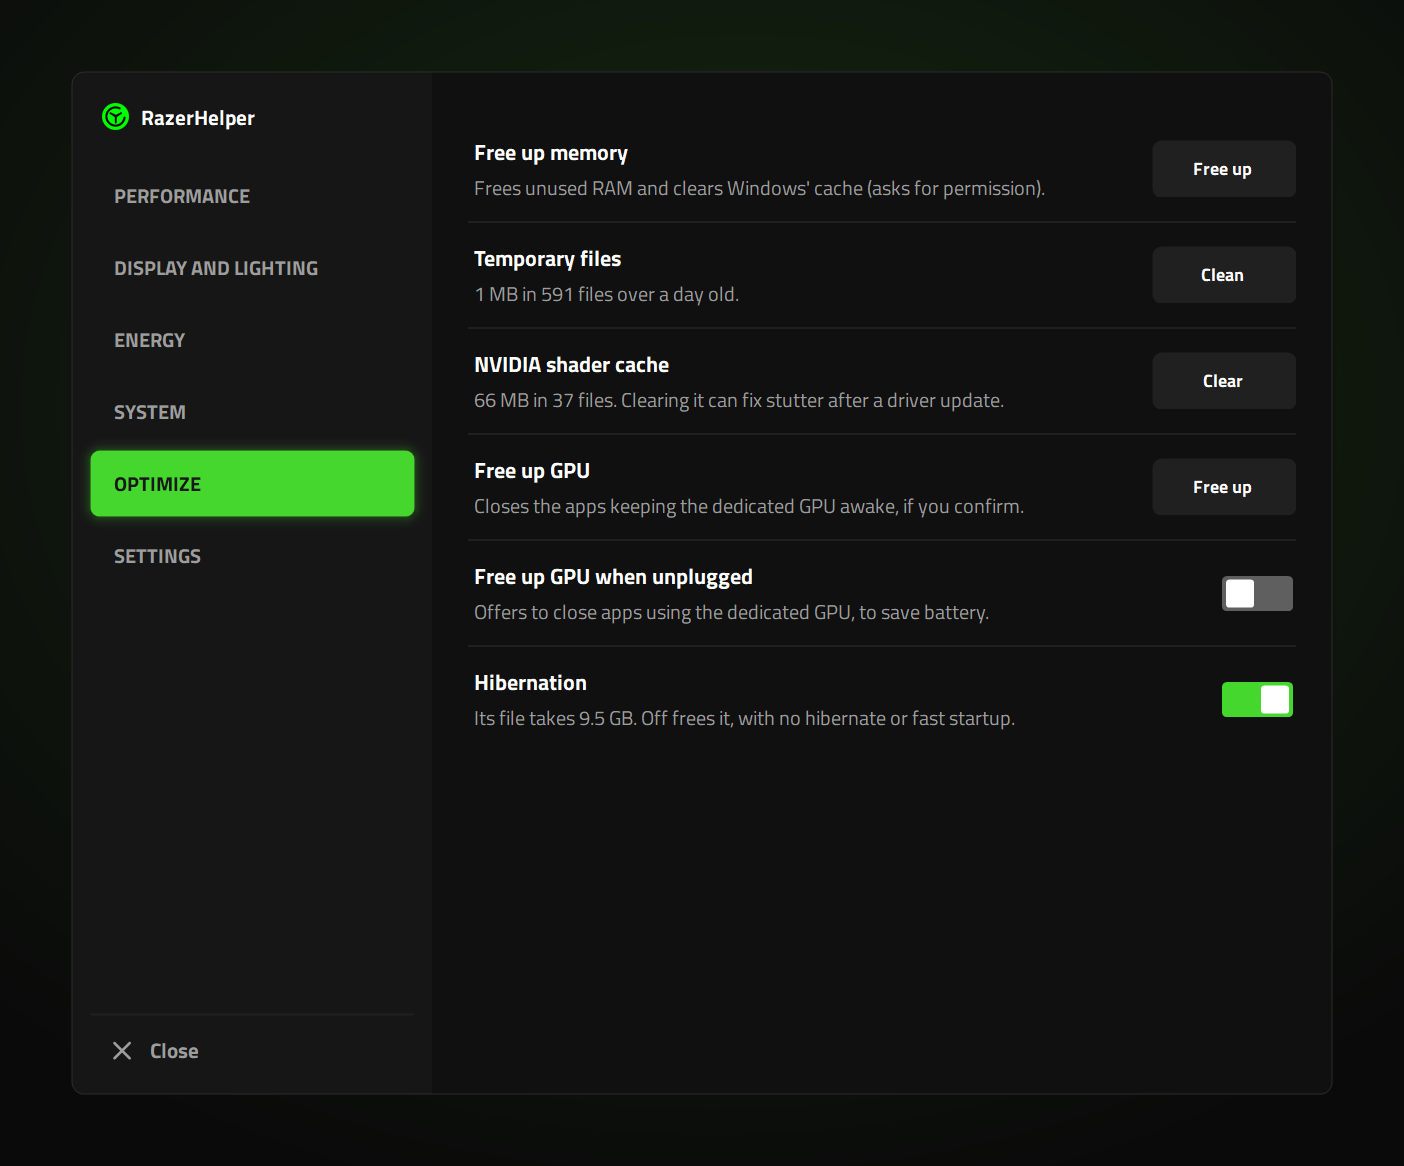
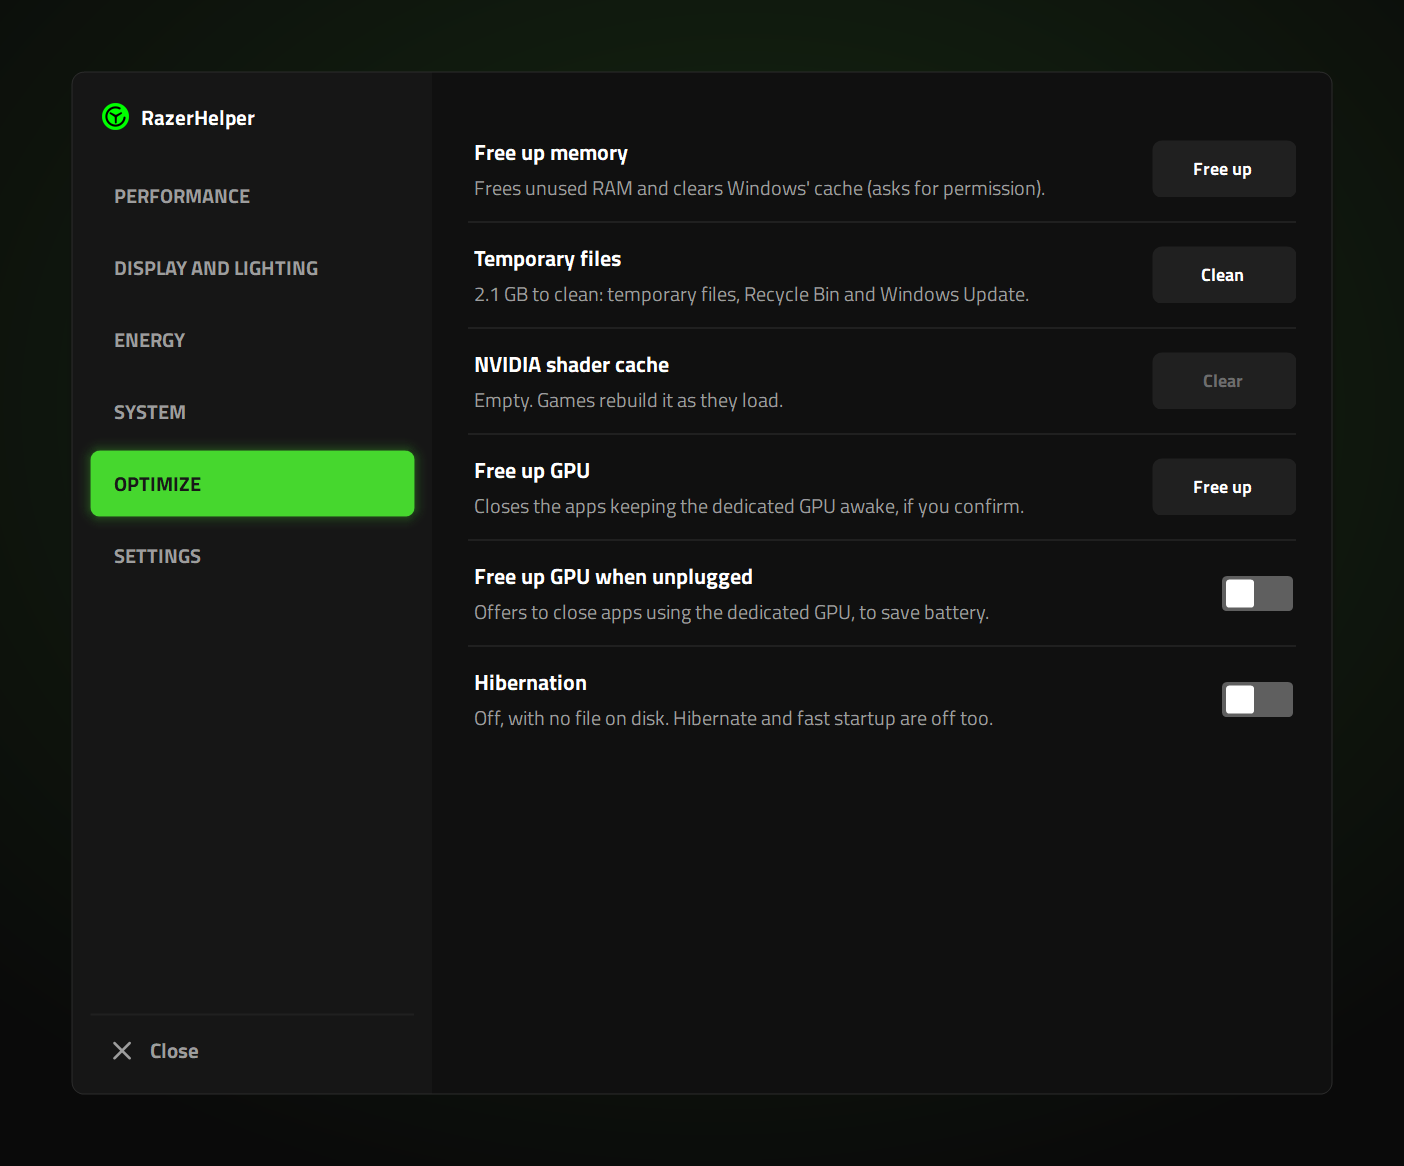
Extends Temporary files to the Recycle Bin and Windows' caches
The row counts the Recycle Bin and Windows Update's downloads over a day
old beside the temporary folder. Cleaning asks before emptying the
Recycle Bin, then clears Windows Update's old downloads and Delivery
Optimization's cache through the app's elevated helper
(--clean-windows-caches); declining the prompt cleans the rest.

diff --git a/src/RazerHelper/UI/Pages/OptimizePage.cs b/src/RazerHelper/UI/Pages/OptimizePage.cs
@@ -26,6 +26,7 @@ internal sealed class OptimizePage : PageView
     private readonly CleanRow _shaders;
     private readonly ToggleSwitch _closeGpuApps;
     private readonly Hibernation? _hibernation;
+    private readonly ExtraCleaning? _extras;
     private readonly ToggleSwitch _hibernationSwitch;
     private readonly Label _hibernationHint;
     private readonly Control _servicesDivider;
@@ -38,8 +39,20 @@ internal sealed class OptimizePage : PageView
     /// <summary>Windows' hibernation: whether it is on, its file's size, and turning it off or on (with administrator rights).</summary>
     internal sealed record Hibernation(Func<bool?> IsEnabled, Func<long?> FileBytes, Func<bool, Task<ElevatedResult>> SetAsync);
 
+    /// <summary>
+    /// What Temporary files clears beyond the temporary folder: the Recycle
+    /// Bin, and Windows Update's and Delivery Optimization's caches (with
+    /// administrator rights; Windows Update's is read without them).
+    /// </summary>
+    internal sealed record ExtraCleaning(
+        Func<RecycleBinContents> RecycleBin,
+        Func<bool> EmptyRecycleBin,
+        TempCleaner WindowsUpdate,
+        Func<Task<ElevatedResult>> CleanWindowsCachesAsync);
+
     /// <param name="cache">Left out (previews), Free up memory does not touch the cache.</param>
     /// <param name="hibernation">Left out (previews), the hibernation row shows it on and changes nothing.</param>
+    /// <param name="extraCleaning">Left out (previews), Temporary files is only the temporary folder.</param>
     public OptimizePage(
         MemoryTrimmer trimmer,
         TempCleaner cleaner,
@@ -47,11 +60,13 @@ internal sealed class OptimizePage : PageView
         ServicesSection services,
         bool closeGpuAppsOnUnplug,
         MemoryCache? cache = null,
-        Hibernation? hibernation = null)
+        Hibernation? hibernation = null,
+        ExtraCleaning? extraCleaning = null)
     {
         _trimmer = trimmer;
         _cache = cache;
         _hibernation = hibernation;
+        _extras = extraCleaning;
 
         _memorySlot = new BusySlot(CreateRowButton("Free up"));
         _memorySlot.Button.Click += async (_, _) => await FreeUpMemoryAsync();
@@ -254,6 +269,22 @@ internal sealed class OptimizePage : PageView
             if (IsDisposed)
                 return;
 
+            // Temporary files counts the Recycle Bin and Windows Update's downloads too.
+            if (row == _temp && _extras is { } extras)
+            {
+                var (bin, update) = await Task.Run(() => (extras.RecycleBin(), extras.WindowsUpdate.Scan()));
+
+                if (IsDisposed)
+                    return;
+
+                var total = found.Bytes + bin.Bytes + update.Bytes;
+                row.Hint.Text = total == 0
+                    ? L.T("Nothing to clean right now.")
+                    : L.F("{0} to clean: temporary files, Recycle Bin and Windows Update.", FormatSize(total));
+                row.Slot.Button.Enabled = total > 0;
+                return;
+            }
+
             row.Hint.Text = !exists ? L.T(row.Texts.Missing)
                 : found.Files == 0 ? L.T(row.Texts.Nothing)
                 : L.F(row.Texts.Found, FormatSize(found.Bytes), found.Files.ToString("N0", CultureInfo.CurrentCulture));
@@ -274,6 +305,33 @@ internal sealed class OptimizePage : PageView
 
     private async Task CleanAsync(CleanRow row)
     {
+        var extras = row == _temp ? _extras : null;
+        var emptyBin = false;
+        var bin = new RecycleBinContents(0, 0);
+
+        // What is in the Recycle Bin cannot be recovered once it is emptied, so it is asked first.
+        if (extras is not null)
+        {
+            bin = await Task.Run(extras.RecycleBin);
+
+            if (bin.Items > 0)
+            {
+                using var hold = KeepOpen();
+                var answer = MessageBox.Show(
+                    FindForm(),
+                    L.F("Empty the Recycle Bin too? It holds {0} in {1} items, which cannot be recovered afterwards.", FormatSize(bin.Bytes), bin.Items.ToString("N0", CultureInfo.CurrentCulture)),
+                    L.T("Temporary files"),
+                    MessageBoxButtons.YesNoCancel,
+                    MessageBoxIcon.Question,
+                    MessageBoxDefaultButton.Button2);
+
+                if (answer == DialogResult.Cancel)
+                    return;
+
+                emptyBin = answer == DialogResult.Yes;
+            }
+        }
+
         // Nothing is left to clean afterwards, so the button stays off until the next scan.
         row.Slot.Button.Enabled = false;
         row.Slot.Busy = true;
@@ -286,6 +344,12 @@ internal sealed class OptimizePage : PageView
 
             if (IsDisposed)
                 return;
+
+            if (extras is not null)
+            {
+                row.Hint.Text = await CleanMoreAsync(extras, result.Bytes, emptyBin ? bin : null);
+                return;
+            }
 
             var cleaned = L.F("{0} freed ({1} files).", FormatSize(result.Bytes), result.Files.ToString("N0", CultureInfo.CurrentCulture));
             row.Hint.Text = result.Skipped == 0
@@ -304,6 +368,38 @@ internal sealed class OptimizePage : PageView
             if (!IsDisposed)
                 row.Slot.Busy = false;
         }
+    }
+
+    // After the temporary folder: the Recycle Bin when the user said so, then
+    // Windows' caches, which Windows asks administrator permission for.
+    // Declining leaves those as they were. Says how much went in all.
+    private async Task<string> CleanMoreAsync(ExtraCleaning extras, long freed, RecycleBinContents? bin)
+    {
+        if (bin is not null && await Task.Run(extras.EmptyRecycleBin))
+        {
+            freed += bin.Bytes;
+            AppLog.Info($"Recycle Bin emptied: {bin.Items} items, {bin.Bytes} bytes.");
+        }
+
+        var before = await Task.Run(() => extras.WindowsUpdate.Scan().Bytes);
+        ElevatedResult result;
+
+        // Windows' permission prompt takes the focus from the window.
+        using (KeepOpen())
+            result = await extras.CleanWindowsCachesAsync();
+
+        var after = await Task.Run(() => extras.WindowsUpdate.Scan().Bytes);
+        freed += Math.Max(0, before - after);
+
+        var line = L.F("{0} freed.", FormatSize(freed));
+
+        if (result.UserDeclined)
+            return $"{line} {L.T("Windows' caches were kept: administrator permission was not given.")}";
+
+        if (result.ExitCode != WindowsCachesCommand.Success)
+            return $"{line} {L.T("Windows' caches could not all be cleared.")}";
+
+        return line;
     }
 
     // --- Hibernation ----------------------------------------------------------

diff --git a/src/RazerHelper/Helpers/WindowsCaches.cs b/src/RazerHelper/Helpers/WindowsCaches.cs
@@ -1,0 +1,93 @@
+using System.Diagnostics;
+using System.Runtime.InteropServices;
+using RazerHelper.Core.Diagnostics;
+using RazerHelper.Core.Services;
+
+namespace RazerHelper.Helpers;
+
+/// <summary>What the Recycle Bin holds, on every drive.</summary>
+internal sealed record RecycleBinContents(long Bytes, long Items);
+
+/// <summary>
+/// The rest of Temporary files: the Recycle Bin (the user's own, emptied
+/// without administrator rights), and Windows Update's downloads and Delivery
+/// Optimization's cache (Windows' own, cleared elevated, see WindowsCachesCommand).
+/// </summary>
+internal static class WindowsCaches
+{
+    private const uint NoConfirmation = 0x1;
+    private const uint NoProgressUi = 0x2;
+    private const uint NoSound = 0x4;
+
+    /// <summary>
+    /// Windows Update's downloaded updates, over a day old, so an update that
+    /// is downloading now is left alone. Windows downloads again what it still needs.
+    /// </summary>
+    public static TempCleaner WindowsUpdate() =>
+        new([Path.Combine(Environment.GetFolderPath(Environment.SpecialFolder.Windows), "SoftwareDistribution", "Download")], TempCleaner.MinimumAge);
+
+    /// <summary>What the Recycle Bin holds; empty when Windows does not say.</summary>
+    public static RecycleBinContents RecycleBin()
+    {
+        var info = new ShQueryRbInfo { Size = Marshal.SizeOf<ShQueryRbInfo>() };
+        return SHQueryRecycleBin(null, ref info) == 0 ? new RecycleBinContents(info.Bytes, info.Items) : new RecycleBinContents(0, 0);
+    }
+
+    /// <summary>Empties the Recycle Bin on every drive, with no question or sound; true when it is empty after.</summary>
+    public static bool EmptyRecycleBin()
+    {
+        var result = SHEmptyRecycleBin(IntPtr.Zero, null, NoConfirmation | NoProgressUi | NoSound);
+
+        // An already empty bin answers E_UNEXPECTED.
+        return result == 0 || RecycleBin().Items == 0;
+    }
+
+    /// <summary>
+    /// The elevated part: Windows Update's old downloads, then Delivery
+    /// Optimization's cache through Windows' own command. True when both ran.
+    /// </summary>
+    public static bool CleanElevated()
+    {
+        var update = WindowsUpdate().Clean();
+        AppLog.Info($"Windows Update downloads: {update.Files} removed ({update.Bytes} bytes), {update.Skipped} in use left.");
+
+        var start = new ProcessStartInfo("powershell.exe")
+        {
+            CreateNoWindow = true,
+            RedirectStandardError = true,
+            RedirectStandardOutput = true,
+            UseShellExecute = false
+        };
+
+        foreach (var argument in new[] { "-NoProfile", "-NonInteractive", "-Command", "Delete-DeliveryOptimizationCache -Force" })
+            start.ArgumentList.Add(argument);
+
+        using var process = Process.Start(start);
+
+        if (process is null)
+            return false;
+
+        process.StandardOutput.ReadToEnd();
+        var error = process.StandardError.ReadToEnd();
+        process.WaitForExit();
+
+        if (process.ExitCode != 0)
+            AppLog.Info($"Delivery Optimization's cache was not cleared: {error.Trim()}");
+
+        return process.ExitCode == 0;
+    }
+
+    [StructLayout(LayoutKind.Sequential)]
+    private struct ShQueryRbInfo
+    {
+        public int Size;
+        public long Bytes;
+        public long Items;
+    }
+
+    [DllImport("shell32.dll", CharSet = CharSet.Unicode)]
+    private static extern int SHQueryRecycleBin(string? rootPath, ref ShQueryRbInfo info);
+
+    [DllImport("shell32.dll", CharSet = CharSet.Unicode)]
+    private static extern int SHEmptyRecycleBin(IntPtr window, string? rootPath, uint flags);
+}

diff --git a/src/RazerHelper/Core/Services/WindowsCachesCommand.cs b/src/RazerHelper/Core/Services/WindowsCachesCommand.cs
@@ -1,0 +1,45 @@
+using RazerHelper.Core.Diagnostics;
+
+namespace RazerHelper.Core.Services;
+
+/// <summary>
+/// The privileged half of Optimize's Temporary files: Windows Update's
+/// downloads and Delivery Optimization's cache belong to Windows, so clearing
+/// them needs administrator rights. The window relaunches this same exe
+/// elevated (one UAC prompt) with <c>--clean-windows-caches</c>; that process
+/// clears them, sets its exit code and quits. It never opens a window.
+/// </summary>
+internal static class WindowsCachesCommand
+{
+    public const string Switch = "--clean-windows-caches";
+
+    public const int Success = 0;
+    public const int Failed = 1;
+
+    public static string[] Arguments() => [Switch];
+
+    /// <summary>
+    /// Runs the command if <paramref name="args"/> is it, and returns its exit
+    /// code; null otherwise, so normal startup carries on.
+    /// </summary>
+    public static int? TryRun(string[] args, Func<bool> clean)
+    {
+        if (args is not [Switch])
+            return null;
+
+        try
+        {
+            if (clean())
+            {
+                AppLog.Info("Windows' caches cleared (elevated).");
+                return Success;
+            }
+        }
+        catch (Exception exception)
+        {
+            AppLog.Error("The elevated Windows caches command failed.", exception);
+        }
+
+        return Failed;
+    }
+}

diff --git a/src/RazerHelper.Tests/Services/WindowsCachesCommandTests.cs b/src/RazerHelper.Tests/Services/WindowsCachesCommandTests.cs
@@ -1,0 +1,35 @@
+using RazerHelper.Core.Services;
+
+namespace RazerHelper.Tests.Services;
+
+public sealed class WindowsCachesCommandTests
+{
+    [Fact]
+    public void OtherArguments_AreNotTheCommand_SoTheAppStartsNormally()
+    {
+        var cleared = false;
+
+        Assert.Null(WindowsCachesCommand.TryRun([], () => cleared = true));
+        Assert.Null(WindowsCachesCommand.TryRun(["--razer-services", "stop"], () => cleared = true));
+        Assert.Null(WindowsCachesCommand.TryRun([WindowsCachesCommand.Switch, "extra"], () => cleared = true));
+        Assert.False(cleared);
+    }
+
+    [Fact]
+    public void TheCommand_ClearsTheCaches_AndReportsSuccess()
+    {
+        var cleared = false;
+
+        var exitCode = WindowsCachesCommand.TryRun(WindowsCachesCommand.Arguments(), () => cleared = true);
+
+        Assert.True(cleared);
+        Assert.Equal(WindowsCachesCommand.Success, exitCode);
+    }
+
+    [Fact]
+    public void ARefusalOrAFailure_ReportsFailed()
+    {
+        Assert.Equal(WindowsCachesCommand.Failed, WindowsCachesCommand.TryRun(WindowsCachesCommand.Arguments(), () => false));
+        Assert.Equal(WindowsCachesCommand.Failed, WindowsCachesCommand.TryRun(WindowsCachesCommand.Arguments(), () => throw new InvalidOperationException()));
+    }
+}

diff --git a/src/RazerHelper/Core/Localization/L.cs b/src/RazerHelper/Core/Localization/L.cs
@@ -91,6 +91,12 @@ internal static class L
         ["{0} freed ({1} files)."] = "{0} liberados ({1} archivos).",
         ["{0} in use were left."] = "{0} en uso se quedaron.",
         ["Could not clean the temporary files."] = "No se pudieron limpiar los archivos temporales.",
+        ["Nothing to clean right now."] = "Nada que limpiar por ahora.",
+        ["{0} to clean: temporary files, Recycle Bin and Windows Update."] = "{0} para limpiar: archivos temporales, papelera y Windows Update.",
+        ["Empty the Recycle Bin too? It holds {0} in {1} items, which cannot be recovered afterwards."] = "¿Vaciar también la papelera? Tiene {0} en {1} elementos, que no se podrán recuperar después.",
+        ["{0} freed."] = "{0} liberados.",
+        ["Windows' caches were kept: administrator permission was not given."] = "Las cachés de Windows se mantuvieron: no se dio permiso de administrador.",
+        ["Windows' caches could not all be cleared."] = "No se pudieron vaciar todas las cachés de Windows.",
         ["NVIDIA shader cache"] = "Caché de sombreadores de NVIDIA",
         ["Clear"] = "Vaciar",
         ["Clearing..."] = "Vaciando...",

diff --git a/src/RazerHelper/UI/Forms/TrayPopupForm.cs b/src/RazerHelper/UI/Forms/TrayPopupForm.cs
@@ -469,7 +469,8 @@ public sealed class TrayPopupForm : Form
             _servicesSection,
             _settings.CloseGpuAppsOnUnplug,
             new Pages.OptimizePage.MemoryCache(WindowsMemoryCache.CachedBytes, () => ElevatedRunner.RunAsync(MemoryCacheCommand.Arguments())),
-            new Pages.OptimizePage.Hibernation(WindowsHibernation.IsEnabled, WindowsHibernation.FileBytes, enabled => ElevatedRunner.RunAsync(HibernationCommand.Arguments(enabled))));
+            new Pages.OptimizePage.Hibernation(WindowsHibernation.IsEnabled, WindowsHibernation.FileBytes, enabled => ElevatedRunner.RunAsync(HibernationCommand.Arguments(enabled))),
+            new Pages.OptimizePage.ExtraCleaning(WindowsCaches.RecycleBin, WindowsCaches.EmptyRecycleBin, WindowsCaches.WindowsUpdate(), () => ElevatedRunner.RunAsync(WindowsCachesCommand.Arguments())));
         _optimizePage.FreeUpGpu = FreeUpGpuAsync;
         _optimizePage.CloseGpuAppsOnUnplugChanged += (_, enabled) =>
         {

diff --git a/src/RazerHelper/Program.cs b/src/RazerHelper/Program.cs
@@ -30,6 +30,10 @@ namespace RazerHelper
             if (HibernationCommand.TryRun(args, WindowsHibernation.SetEnabled) is int hibernationExitCode)
                 return hibernationExitCode;
 
+            // And for clearing Windows Update's and Delivery Optimization's caches.
+            if (WindowsCachesCommand.TryRun(args, WindowsCaches.CleanElevated) is int cachesExitCode)
+                return cachesExitCode;
+
             // After a restart from Settings, let the old copy finish exiting first:
             // it still holds the single-instance lock below until it is gone.
             AppRestart.WaitForPreviousCopy(args);

diff --git a/README.md b/README.md
@@ -21,7 +21,7 @@ One window, in sections, like Synapse: a sidebar on the left and the chosen sect
 - **Display and lighting:** refresh rate (Auto, 60 Hz, 120 Hz), color profile (Standard, Warm, Cool, Contrast), keyboard and logo effects with their brightness, and the keyboard off with the screen.
 - **Energy:** live battery details, a performance profile for plugged in and for on battery, and Windows' power plan, with one click to install the Razer Blade plan.
 - **System:** the model, Windows, CPU, both GPUs, RAM, BIOS and the drives with their space.
-- **Optimize:** free up memory, clean temporary files and the NVIDIA shader cache, close the apps keeping the dedicated GPU awake, and turn off hibernation to free its file.
+- **Optimize:** free up memory, clean temporary files, the Recycle Bin, Windows Update's and Delivery Optimization's caches and the NVIDIA shader cache, close the apps keeping the dedicated GPU awake, and turn off hibernation to free its file.
 - **Settings:** language, start at login, hide when clicking away, always on top, performance mode shortcuts, maintenance, and a link to the project on GitHub beside the version.
 
 <p align="center">
@@ -89,7 +89,7 @@ Everything the original does still works the same way; on top of it:
 - **Temperatures:** CPU and GPU, shown beside the usage rings under the performance modes (with each one's usage and clock, and the RAM's use, speed and free memory), only while the window is open. The GPU reading comes from the graphics driver (the same source Task Manager uses). The CPU reading comes from the laptop's own controller. Compared with MSI Afterburner under load on the developer's laptop it was very close, but it updates more slowly, so Afterburner's number moves faster (hover it for a reminder). It is not read from the CPU die itself. The GPU is read every 2 seconds and the CPU every 4, and nothing is read while the window is closed.
 - **Fans:** live CPU and GPU fan speed, and **Max** fan speed (both fans flat out). Max is a one-off that needs AC power and, on most models, Custom mode; **Auto** turns it off, and it clears by itself when you change mode. On the Blade 15 Base (2020) it runs both fans at full power through their manual setting instead, which works in any mode but Silent.
 - **Lighting:** the keyboard backlight (Off, Static green, Spectrum, Wave, Breathing) and the Razer logo on the lid (Off, On, Breathing), each with a brightness slider. Always available, on battery or plugged in.
-- **Optimize** (its own section): **Free up memory** moves what background programs are not using out of RAM (the program in front, such as a game, is left alone, and nothing is closed) and, after Windows asks for administrator permission, clears its memory cache, saying how much went (declining keeps the cache); **Temporary files** shows how much your temp folder holds in files over a day old and clears them, leaving any a program has open; **NVIDIA shader cache** shows how much the graphics driver's shader cache holds and clears it (games rebuild it as they load, a little slower the first time; it can fix stutter after a driver update); **Free up GPU**; and **Hibernation**, a switch that shows how much disk the hibernation file takes and turns hibernation off to free it, or back on (Windows asks for administrator permission; off also turns off fast startup). Each runs only when you press its button or switch.
+- **Optimize** (its own section): **Free up memory** moves what background programs are not using out of RAM (the program in front, such as a game, is left alone, and nothing is closed) and, after Windows asks for administrator permission, clears its memory cache, saying how much went (declining keeps the cache); **Temporary files** shows how much there is to clean in your temp folder (files over a day old), the Recycle Bin and Windows Update's downloads (over a day old), and clears them, leaving any a program has open: it asks first before emptying the Recycle Bin, which cannot be undone, and Windows asks administrator permission for Windows Update's and Delivery Optimization's caches (declining cleans the rest); **NVIDIA shader cache** shows how much the graphics driver's shader cache holds and clears it (games rebuild it as they load, a little slower the first time; it can fix stutter after a driver update); **Free up GPU**; and **Hibernation**, a switch that shows how much disk the hibernation file takes and turns hibernation off to free it, or back on (Windows asks for administrator permission; off also turns off fast startup). Each runs only when you press its button or switch.
 - **Razer background services:** shows how many are running, and can stop and restore them (see below).
 - **Tray icon:** its disc takes the color of the current mode (green Balanced, blue Silent, purple Custom), and hovering it names the mode, as in "RazerHelper (Silent)". A mode changed outside the app (the laptop's own keys, Synapse) shows once the window is next opened.
 - **Keyboard shortcuts**, in any program, even a game: **Fn+Del** shows or hides the window, and **Ctrl+Shift+F1 / F2** switch to Balanced and Silent with a small notice at the top right (see [Keyboard shortcuts](#keyboard-shortcuts)).

diff --git a/CHANGELOG.md b/CHANGELOG.md
@@ -46,6 +46,7 @@ Changes made in this fork by [jdsgnrinfo](https://github.com/jdsgnrinfo) on top 
 - **GitHub** beside the version in Settings opens the project's page; grey, green under the pointer, like Close.
 - **Optimize** gains **NVIDIA shader cache**, which shows the size of the graphics driver's shader cache and clears it (files a game has open stay), and **Hibernation**, a switch that shows the size of the hibernation file and turns hibernation off or on with administrator permission (off also turns off fast startup).
 - **Color profile** in Display and lighting: Standard, Warm, Cool or Contrast, applied at once to every screen through its gamma ramp and remembered. Standard and closing the app give each screen back the ramp it had; the profile is put back after sleep, the screen turning on or a change of screen.
+- **Temporary files** also counts and clears the Recycle Bin (after asking, as it cannot be undone) and, with administrator permission, Windows Update's old downloads and Delivery Optimization's cache.
 - **New previews** in the README: one picture of each section (Performance, Custom, Display and lighting, Energy, System, Optimize, Settings), drawn at 1.5 times the base size, with a short summary of each.
 - The charge limit slider shows the chosen limit at its right, like the lighting sliders.
 - **Any percentage on every slider:** the charge limit takes any value from 60% to 100% (it offered only 60, 80 and 100) and the lighting brightness any value from 0% to 100% (it went in steps of 5). The thumb follows the pointer while dragging and glides into place on release.
